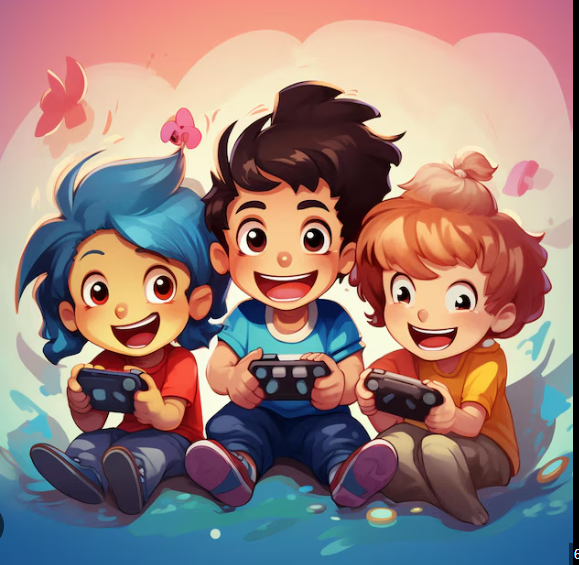
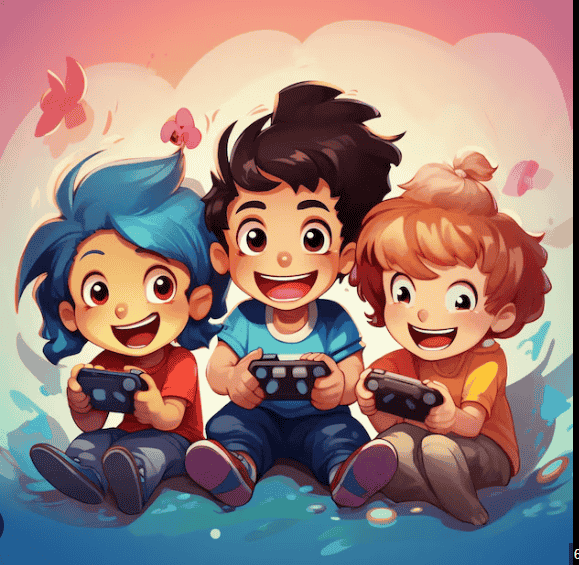
asset size reduced

diff --git a/app/index.tsx b/app/index.tsx
@@ -29,29 +29,27 @@ export default function Index() {
   // Load sounds on mount
   useEffect(() => {
     async function initializeSounds() {
-      try {
-        await dispatch(loadSounds() as any);
-        dispatch(playSound("quiz"));
-      } catch (error) {
-        console.error("Failed to load or play sounds:", error);
-      }
+      await dispatch(loadSounds() as any);
+      dispatch(playSound("quiz"));
     }
     initializeSounds();
-
+  
+    // Clean up only if the component is truly unmounted (not navigating)
     return () => {
-      dispatch(stopQuizSound());
-      dispatch(unloadSounds());
+      if (navigation.isFocused()) {
+        dispatch(stopQuizSound());
+        dispatch(unloadSounds());
+      }
     };
-  }, [dispatch]);
+  }, [dispatch, navigation]);
+  
 
-  // Set navigation options to hide header
   useLayoutEffect(() => {
     navigation.setOptions({
       headerShown: false,
     });
   }, [navigation]);
 
-  // Check if this is the first launch
   useEffect(() => {
     const checkFirstLaunch = async () => {
       try {
@@ -70,21 +68,17 @@ export default function Index() {
     checkFirstLaunch();
   }, []);
 
-  // Handle video end callback to hide splash screen
   const handleVideoEnd = () => {
     setIsLoading(false);
   };
 
-  // Render splash screen video if loading
   if (isLoading) {
     return <VideoPlayerComponent videoIndex={1} onVideoEnd={handleVideoEnd} />;
   }
 
-  // Render onboarding screen if it's the first launch, otherwise render the home screen
   if (isFirstLaunch) {
     return <Onboarding />;
   }
 
-  // Render the main content (e.g., GameModeScreen or whatever your main screen is)
   return <GameModeScreen />;
 }

diff --git a/screens/GameModeScreen/gameModeScreen.tsx b/screens/GameModeScreen/gameModeScreen.tsx
@@ -12,16 +12,11 @@ import Animated, {
 } from "react-native-reanimated";
 import { useFocusEffect } from "@react-navigation/native"; // Import useFocusEffect
 import { StatusBar } from "react-native";
-import { useSelector } from "react-redux";
-import { RootState } from "@/redux/store";
-
+import { optionsGameMode } from "@/constants/gamemode";
 const GameModeScreen: React.FC = () => {
-  // Local State
 
-  // Animation State
   const animationValue = useSharedValue(0);
 
-  // Animation Style
   const animatedStyle = useAnimatedStyle(() => ({
     transform: [
       { translateY: animationValue.value * 50 }, // Slide from 50px above
@@ -29,40 +24,12 @@ const GameModeScreen: React.FC = () => {
     opacity: animationValue.value, // Fade in
   }));
 
-  // Trigger animation on screen focus
   useFocusEffect(
     React.useCallback(() => {
       animationValue.value = 0; // Reset animation value
       animationValue.value = withTiming(1, { duration: 800 }); // Start animation
     }, [])
   );
-
-  const optionsGameMode = [
-    {
-      label: "Think & Count !",
-      value: "QUIZ_WITH_BOTS",
-      backgroundId: 1,
-      route: "/gamelevel",
-    },
-    {
-      label: "Connect & Play!",
-      value: "ONLINE_WITH_BOTS",
-      backgroundId: 2,
-      route: "/connectandplay",
-    },
-    {
-      label: "Play with Bots!",
-      value: "bots",
-      backgroundId: 3,
-      route: "/playwithbot",
-    },
-    {
-      label: "Play with Friends!",
-      value: "Offline",
-      backgroundId: 4,
-      route: "/playerName",
-    },
-  ];
 
   return (
     <SafeAreaView style={[globalstyles.container]}>

diff --git a/screens/onboardingScreen/onboardingScreen.tsx b/screens/onboardingScreen/onboardingScreen.tsx
@@ -15,6 +15,8 @@ const { width } = Dimensions.get("window");
 import { styles } from "./onboardinstyles";
 import { onboardingData } from "@/constants/onboardingData";
 import { useRouter } from "expo-router";
+import { useDispatch } from "react-redux";
+import { playSound } from "@/redux/reducers/soundReducer";
 
 export const Onboarding = () => {
   const [currentIndex, setCurrentIndex] = useState(0);
@@ -40,6 +42,7 @@ export const Onboarding = () => {
     </Animated.View>
   );
 
+  const dispatch = useDispatch();
   useEffect(() => {
     // Animate opacity and scale on index change
     Animated.parallel([
@@ -56,6 +59,9 @@ export const Onboarding = () => {
     ]).start();
   }, [currentIndex]);
 
+  const handleNavigation = () => {
+    router.replace("/modeselect");
+  };
   return (
     <ImageBackground
       source={require("../../assets/images/bg/quiz.png")}
@@ -90,7 +96,7 @@ export const Onboarding = () => {
           <Pressable
             style={styles.button}
             onPress={() => {
-              router.replace("/modeselect");
+              handleNavigation();
             }}
           >
             <Text style={styles.buttonText}>Let's Get Started</Text>

diff --git a/constants/gamemode.ts b/constants/gamemode.ts
@@ -1,0 +1,26 @@
+export const optionsGameMode = [
+  {
+    label: "Think & Count !",
+    value: "QUIZ_WITH_BOTS",
+    backgroundId: 1,
+    route: "/gamelevel",
+  },
+  {
+    label: "Connect & Play!",
+    value: "ONLINE_WITH_BOTS",
+    backgroundId: 2,
+    route: "/connectandplay",
+  },
+  {
+    label: "Play with Bots!",
+    value: "bots",
+    backgroundId: 3,
+    route: "/playwithbot",
+  },
+  {
+    label: "Play with Friends!",
+    value: "Offline",
+    backgroundId: 4,
+    route: "/playerName",
+  },
+];
